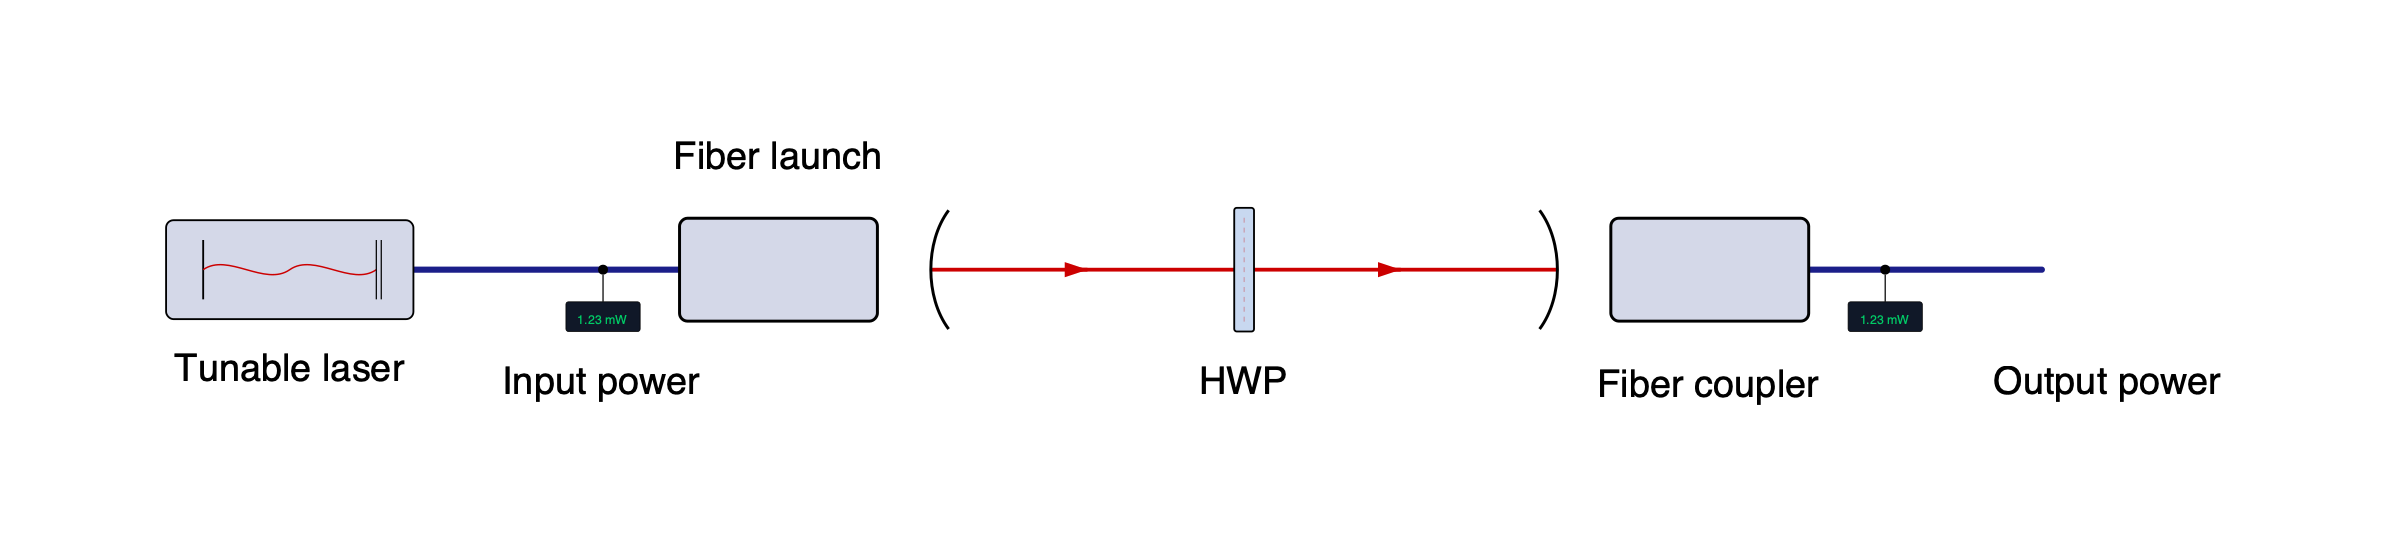
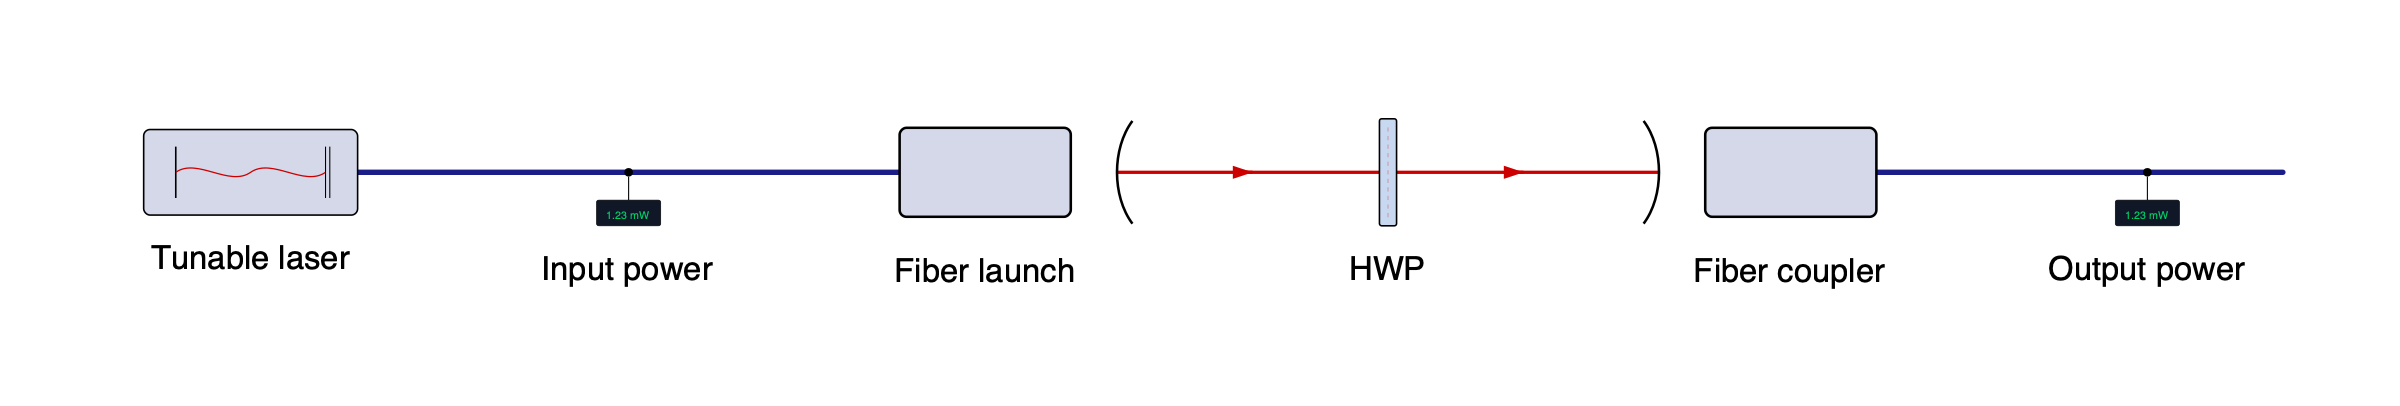
Keep natural cable gaps between fiber attachments

diff --git a/tests/test_fiber.py b/tests/test_fiber.py
@@ -425,19 +425,19 @@ def test_fiber_docks_at_asset_attachment_without_embedded_cable(spec, attachment
     assert_routes_clear(layout)
 
 
-def test_fiber_component_pitch_excludes_connector_offsets():
+@pytest.mark.parametrize("pitch", [190, 300])
+def test_fiber_and_free_space_pitch_measures_the_gap_between_ports(pitch):
     path = mixed()
-    default = path.layout()
-    positions = [p.position[0] for p in default.placements.values()]
-    assert positions[1] - positions[0] == default.style.pitch
-    assert all(default.style.pitch <= b - a + 1e-8 <= default.style.pitch + default.style.clearance
-               for a, b in zip(positions, positions[1:]))
-    # A larger preferred pitch needs no enlargement for these glyphs.
-    roomy = path.layout(style=Style(pitch=300))
-    positions = [p.position[0] for p in roomy.placements.values()]
-    assert [b - a for a, b in zip(positions, positions[1:])] == pytest.approx([300] * 5)
-    assert_routes_clear(default)
-    assert_routes_clear(roomy)
+    layout = path.layout(style=Style(pitch=pitch))
+    fibers = [r for r in layout.fibers if r.source and r.target]
+    assert len(fibers) == 3
+    assert [r.length for r in fibers] == pytest.approx([pitch] * 3)
+    assert [s.length for s in layout.segments] == pytest.approx([pitch] * 2)
+    # Attachment offsets enlarge center spacing, never consume the cable gap.
+    laser, meter, launch = list(layout.placements.values())[:3]
+    assert meter.position[0] - laser.position[0] == pytest.approx(pitch + 75)
+    assert launch.position[0] - meter.position[0] == pytest.approx(pitch + 152.4)
+    assert_routes_clear(layout)
 
 
 def test_unused_optional_fiber_input_has_an_open_stub():

diff --git a/src/beampath/fiber_layout.py b/src/beampath/fiber_layout.py
@@ -181,10 +181,9 @@ def _place(setup, style):
             target_component = block[edge.target]
             origin = source.port_position(edge.output)
             target = target_component.port_position(edge.input)
-            # Pitch is between component reference points, as for the usual
-            # free-space optics. Ports at housing edges shorten the cable gap.
-            offset = sum((target[i] - target_component.position[i]
-                          - origin[i] + source.position[i]) * direction[i] for i in (0, 1))
+            # Like free-space edges, pitch measures the gap between ports.
+            # Housing-edge attachments must leave a visible run of cable;
+            # measuring center-to-center lets large housings consume the gap.
             clearance = (_project(source.bounds, origin, direction)[1]
                          - _project(target_component.bounds, target, direction)[0] + style.clearance)
             if not aligned(source.port_exit_direction(edge.output) + 180,
@@ -194,7 +193,7 @@ def _place(setup, style):
                 margin = max(style.clearance, style.fiber_width)
                 clearance = (_project(inflate(source.bounds, margin), origin, direction)[1]
                              - _project(inflate(target_component.bounds, margin), target, direction)[0])
-            gap = max(1, style.pitch + offset, clearance)
+            gap = max(style.pitch, clearance)
             delta = add(origin, (gap * direction[0], gap * direction[1]))
             delta = add(delta, (-direction[1] * lane * style.pitch, direction[0] * lane * style.pitch))
             delta = delta[0] - target[0], delta[1] - target[1]

diff --git a/README.md b/README.md
@@ -291,11 +291,14 @@ is `None` for fiber-only components. `Style.fiber_color`, `fiber_width`, and
 ## Spacing and reuse
 
 The graph fixes beam headings; Kiwi solves positions and gap lengths.
-Automatic free-space gaps are at least 190 diagram units, or the artwork
-clearance if larger. They stretch to close joins, with equal gaps preferred along
-straight runs. Fiber placement uses the same preferred 190-unit component pitch,
-enlarging it for artwork or turn clearance; housing-edge ports do not add their
-offsets to this spacing. Beam crossings do not create connections.
+Automatic free-space gaps are at least `Style.pitch` (190 diagram units), or the
+artwork clearance if larger. They stretch to close joins, with equal gaps
+preferred along straight runs. Automatic fiber placement uses the same minimum
+gap between attachment points, enlarging it for artwork or turn clearance.
+Housing offsets add to component-center spacing so a visible cable run remains;
+explicitly pinned fiber components keep their requested positions.
+Labels are positioned after components, choosing a clear side or corner. Labels
+do not currently expand component spacing. Beam crossings do not create connections.
 Initial free-space inputs, unconnected fiber inputs, and open outputs get short
 stubs, controlled by `Style.open_length` (95 diagram units by default) and
 extended as needed for artwork clearance.
